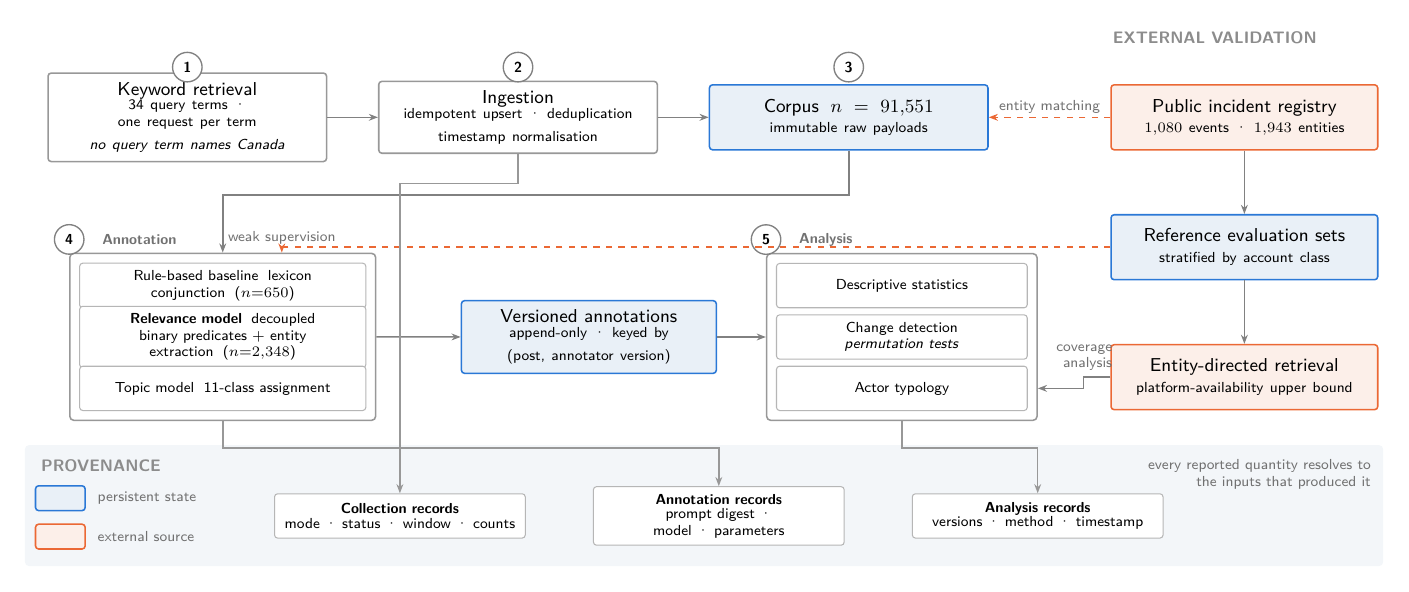
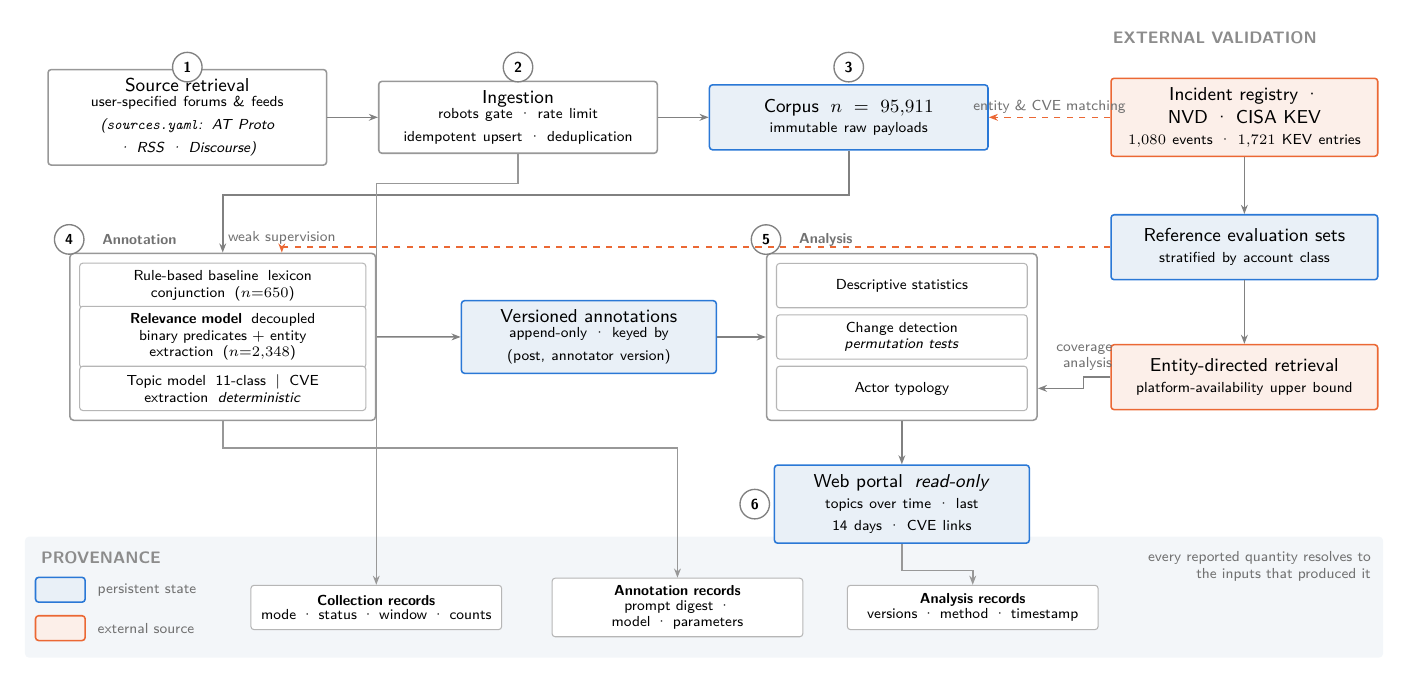
Architecture: add multi-source retrieval, CVE/OSINT enrichment and the portal
Stage 1 is now user-specified sources rather than a fixed term list; ingestion
shows the robots gate and rate limiting; annotation carries deterministic CVE
extraction beside the models; the external column adds NVD and CISA KEV; and a
sixth stage, the read-only portal, is the first output with an actual reader.

diff --git a/figures/src/architecture.tex b/figures/src/architecture.tex
@@ -36,12 +36,12 @@
 
 %% ---------------- row 1 : acquisition ----------------
 \node[stage] (ret) at (0, 0)
-  {Keyword retrieval\\[-1pt]{\scriptsize 34 query terms · one request per term\\
-   \textit{no query term names Canada}}};
+  {Source retrieval\\[-1pt]{\scriptsize user-specified forums \& feeds\\
+   \textit{(\texttt{sources.yaml}: AT Proto · RSS · Discourse)}}};
 \node[stage] (ing) at (5.6, 0)
-  {Ingestion\\[-1pt]{\scriptsize idempotent upsert · deduplication\\timestamp normalisation}};
+  {Ingestion\\[-1pt]{\scriptsize robots gate · rate limit\\idempotent upsert · deduplication}};
 \node[data]  (cor) at (11.2, 0)
-  {Corpus \;$n = 91{,}551$\\[-1pt]{\scriptsize immutable raw payloads}};
+  {Corpus \;$n = 95{,}911$\\[-1pt]{\scriptsize immutable raw payloads}};
 
 \draw[ar] (ret) -- (ing);
 \draw[ar] (ing) -- (cor);
@@ -50,7 +50,8 @@
 \node[sub] (a1) at (0.6, -2.85) {Rule-based baseline \;lexicon conjunction \;($n{=}650$)};
 \node[sub] (a2) at (0.6, -3.72)
   {\textbf{Relevance model} \;decoupled binary predicates $+$ entity extraction \;($n{=}2{,}348$)};
-\node[sub] (a3) at (0.6, -4.59) {Topic model \;11-class assignment};
+\node[sub] (a3) at (0.6, -4.59)
+  {Topic model \;11-class \hspace{2pt}$|$\hspace{2pt} CVE extraction \;\textit{deterministic}};
 \begin{scope}[on background layer]\node[grp, fit=(a1)(a2)(a3)] (ann) {};\end{scope}
 
 \node[data=40mm] (out) at (6.8, -3.72)
@@ -79,7 +80,7 @@
 %% ---------------- external validation (right) ----------------
 \node[hdr, anchor=west] at (15.55, 1.35) {EXTERNAL VALIDATION};
 \node[extn] (src) at (17.9, 0)
-  {Public incident registry\\[-1pt]{\scriptsize $1{,}080$ events · $1{,}943$ entities}};
+  {Incident registry · NVD · CISA KEV\\[-1pt]{\scriptsize $1{,}080$ events · $1{,}721$ KEV entries}};
 \node[data=42mm] (ev) at (17.9, -2.2)
   {Reference evaluation sets\\[-1pt]{\scriptsize stratified by account class}};
 \node[extn] (edr) at (17.9, -4.4)
@@ -87,35 +88,40 @@
 
 \draw[ar] (src) -- (ev);
 \draw[ar] (ev) -- (edr);
-\draw[arw] (src.west) -- node[ann, above, pos=.5]{entity matching} (cor.east);
+\draw[arw] (src.west) -- node[ann, above, pos=.5]{entity \& CVE matching} (cor.east);
 \draw[arw] (ev.west)  -- ++(-.7,0) -| node[ann, above, pos=.62]{weak supervision} ([xshift=10mm]ann.north);
 \draw[ar]  (edr.west) -- ++(-.45,0) |- ([yshift=-8.7mm]ana.east);
 
 \node[ann, anchor=south east, align=right] at (15.72, -4.35) {coverage\\analysis};
 
+\node[data=40mm] (portal) at (12.1, -6.55)
+  {Web portal \;\textit{read-only}\\[-1pt]{\scriptsize topics over time · last 14 days · CVE links}};
+\node[num] at ([xshift=-3.2mm]portal.west) {6};
+\draw[ar] (ana.south) -- (portal.north);
+
 %% ---------------- provenance band (bottom) ----------------
 \begin{scope}[on background layer]
   \node[fill=band, rounded corners=2pt, inner sep=0pt,
-        fit={(-2.75,-7.6) (20.25,-5.55)}] {};
+        fit={(-2.75,-9.15) (20.25,-7.1)}] {};
 \end{scope}
-\node[hdr, anchor=west] at (-2.6, -5.9) {PROVENANCE};
-\node[sub=40mm] (p1) at (3.6, -6.75)
+\node[hdr, anchor=west] at (-2.6, -7.45) {PROVENANCE};
+\node[sub=40mm] (p1) at (3.2, -8.3)
   {\textbf{Collection records}\\[-1pt]mode · status · window · counts};
-\node[sub=40mm] (p2) at (9.0, -6.75)
+\node[sub=40mm] (p2) at (8.3, -8.3)
   {\textbf{Annotation records}\\[-1pt]prompt digest · model · parameters};
-\node[sub=40mm] (p3) at (14.4, -6.75)
+\node[sub=40mm] (p3) at (13.3, -8.3)
   {\textbf{Analysis records}\\[-1pt]versions · method · timestamp};
-\node[ann, anchor=east, text width=42mm, align=right] at (20.1, -6.05)
+\node[ann, anchor=east, text width=42mm, align=right] at (20.1, -7.6)
   {every reported quantity resolves to\\the inputs that produced it};
 
 \draw[ar, draw=ink!45] (ing.south) -- ++(0,-.5) -| (p1.north);
 \draw[ar, draw=ink!45] (ann.south) -- ++(0,-.45) -| (p2.north);
-\draw[ar, draw=ink!45] (ana.south) -- ++(0,-.45) -| (p3.north);
+\draw[ar, draw=ink!45] (portal.south) -- ++(0,-.45) -| (p3.north);
 
 %% ---------------- legend ----------------
-\node[data=7mm, minimum height=4.2mm, inner sep=2pt] (lg1) at (-2.15, -6.45) {};
+\node[data=7mm, minimum height=4.2mm, inner sep=2pt] (lg1) at (-2.15, -8.0) {};
 \node[ann, anchor=west] at ([xshift=1.4mm]lg1.east) {persistent state};
-\node[extn=7mm, minimum height=4.2mm, inner sep=2pt] (lg2) at (-2.15, -7.1) {};
+\node[extn=7mm, minimum height=4.2mm, inner sep=2pt] (lg2) at (-2.15, -8.65) {};
 \node[ann, anchor=west] at ([xshift=1.4mm]lg2.east) {external source};
 
 \end{tikzpicture}
